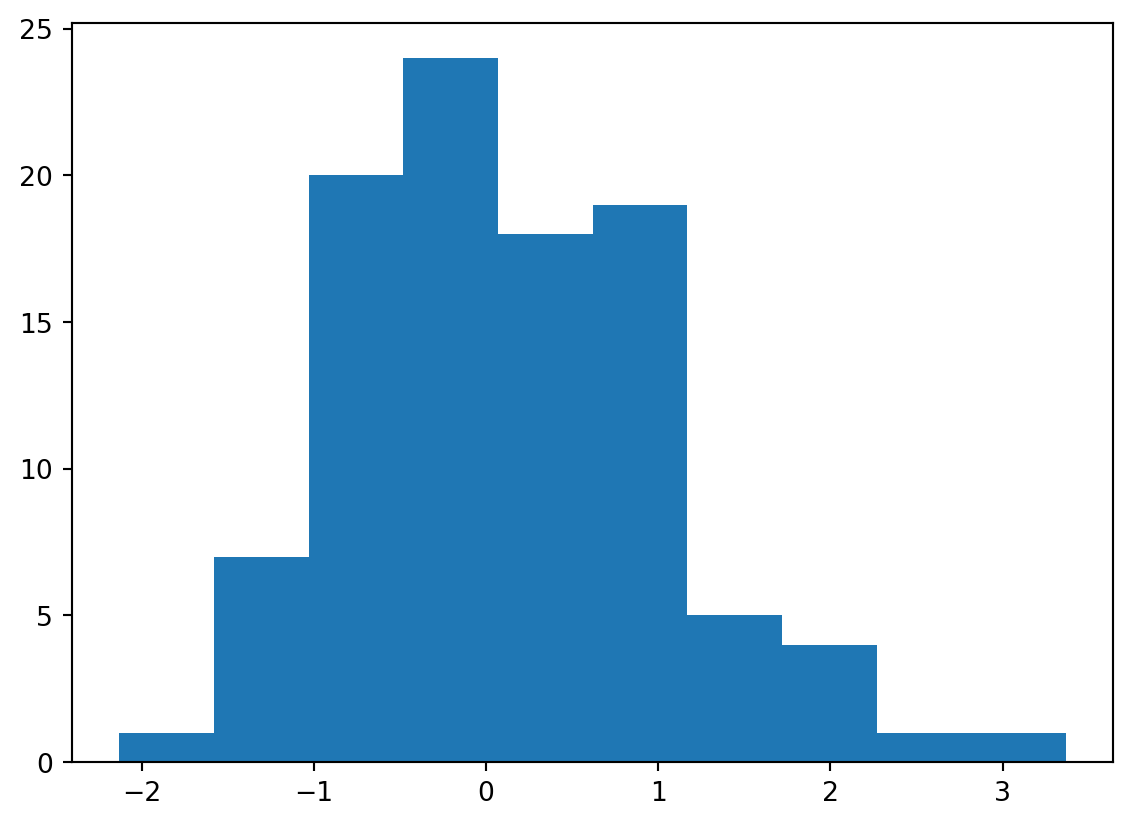
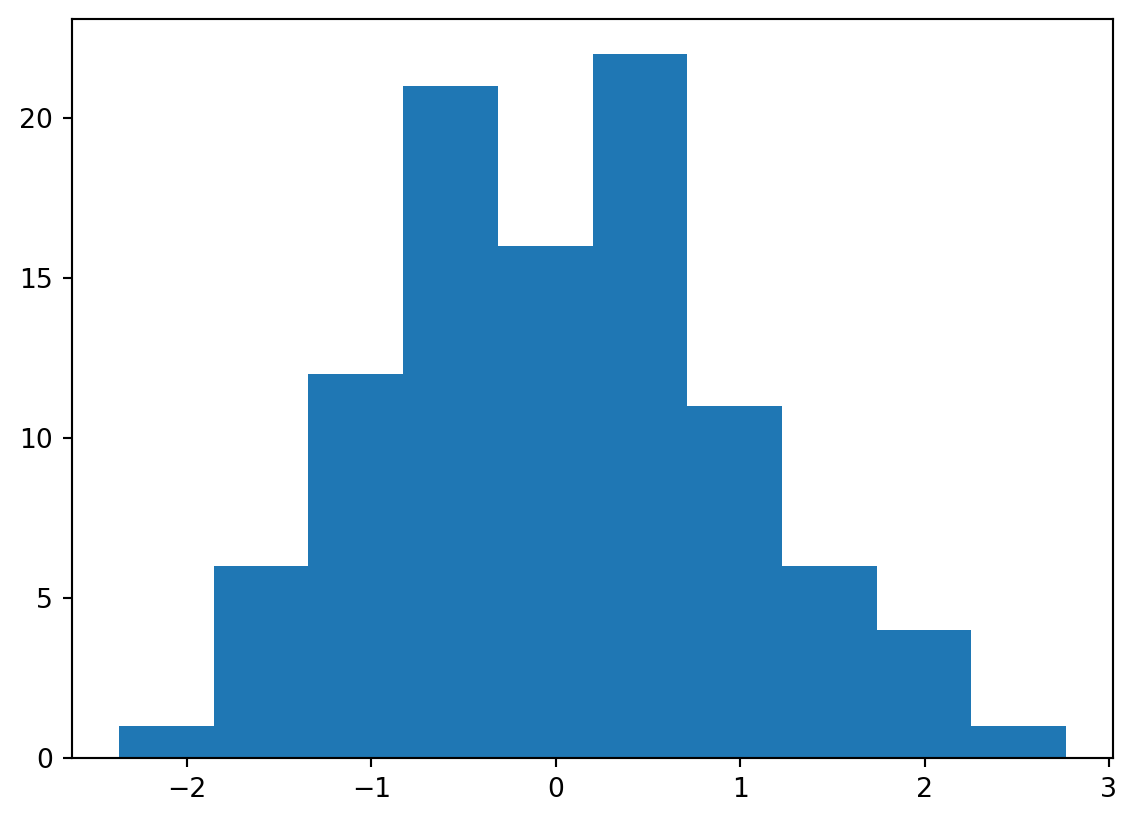
Built site for gh-pages

diff --git a/units/unit1.html b/units/unit1.html
@@ -193,7 +193,7 @@ window.Quarto = {
 <p>This is an example of using qmd as the source document.</p>
 <section id="evaluated-python-code-chunk-with-a-plot" class="level2">
 <h2 class="anchored" data-anchor-id="evaluated-python-code-chunk-with-a-plot">Evaluated Python code chunk, with a plot</h2>
-<div id="e0435729" class="cell" data-execution_count="1">
+<div id="d316f4c7" class="cell" data-execution_count="1">
 <details open="" class="code-fold">
 <summary>Code</summary>
 <div class="code-copy-outer-scaffold"><div class="sourceCode cell-code" id="cb1"><pre class="sourceCode python code-with-copy"><code class="sourceCode python"><span id="cb1-1"><a href="#cb1-1" aria-hidden="true" tabindex="-1"></a><span class="im">import</span> numpy <span class="im">as</span> np</span>
@@ -206,12 +206,12 @@ window.Quarto = {
 <div class="cell-output cell-output-display">
 <div>
 <figure class="figure">
-<p><img src="unit1_files/figure-html/cell-2-output-1.png" width="566" height="413" class="figure-img"></p>
+<p><img src="unit1_files/figure-html/cell-2-output-1.png" width="568" height="411" class="figure-img"></p>
 </figure>
 </div>
 </div>
 <div class="cell-output cell-output-display" data-execution_count="1">
-<pre><code>0.1088948563379814</code></pre>
+<pre><code>0.037529259730748284</code></pre>
 </div>
 </div>
 </section>
@@ -264,7 +264,7 @@ window.Quarto = {
 </div>
 <div id="tabset-1-2" class="tab-pane" role="tabpanel" aria-labelledby="tabset-1-2-tab">
 <p>This code is executed.</p>
-<div id="e6269522" class="cell" data-execution_count="2">
+<div id="66c91895" class="cell" data-execution_count="2">
 <details open="" class="code-fold">
 <summary>Code</summary>
 <div class="code-copy-outer-scaffold"><div class="sourceCode cell-code" id="cb4"><pre class="sourceCode python code-with-copy"><code class="sourceCode python"><span id="cb4-1"><a href="#cb4-1" aria-hidden="true" tabindex="-1"></a><span class="kw">def</span> fizz_buzz(num):</span>

diff --git a/units/unit3.html b/units/unit3.html
@@ -195,7 +195,7 @@ $$
 <p>This is an example of using qmd as the source document with pdf as one target. I’ve taken out the qmd stuff that doesn’t seem to render to pdf.</p>
 <section id="evaluated-python-code-chunk-with-a-plot" class="level2">
 <h2 class="anchored" data-anchor-id="evaluated-python-code-chunk-with-a-plot">Evaluated Python code chunk, with a plot</h2>
-<div id="46859a47" class="cell" data-execution_count="1">
+<div id="4078a54b" class="cell" data-execution_count="1">
 <details open="" class="code-fold">
 <summary>Code</summary>
 <div class="code-copy-outer-scaffold"><div class="sourceCode cell-code" id="cb1"><pre class="sourceCode python code-with-copy"><code class="sourceCode python"><span id="cb1-1"><a href="#cb1-1" aria-hidden="true" tabindex="-1"></a><span class="im">import</span> numpy <span class="im">as</span> np</span>
@@ -208,12 +208,12 @@ $$
 <div class="cell-output cell-output-display">
 <div>
 <figure class="figure">
-<p><img src="unit3_files/figure-html/cell-2-output-1.png" width="566" height="411" class="figure-img"></p>
+<p><img src="unit3_files/figure-html/cell-2-output-1.png" width="579" height="411" class="figure-img"></p>
 </figure>
 </div>
 </div>
 <div class="cell-output cell-output-display" data-execution_count="1">
-<pre><code>0.06886250424296922</code></pre>
+<pre><code>0.1658912914410287</code></pre>
 </div>
 </div>
 </section>

diff --git a/index.html b/index.html
@@ -744,7 +744,7 @@ window.Quarto = {
 
            <tr>
            
-           <td><strong class="label label-Assignment">Assignment 2</strong> <a href="https://drive.google.com/file/d/1A6VAZz-4zVopF4z3-mAvUC3OESuSqx0h/view?usp=sharing" target="_blank">Assignment 2 Released - Due Mar 10</a></td>
+           <td><strong class="label label-Assignment">Assignment 2</strong> <a href="https://drive.google.com/file/d/13b_Ay8gdylQnnl_oeD_PI48RQlitFipB/view?usp=sharing" target="_blank">Assignment 2 Released - Due Mar 10</a></td>
            
                 <td></td>
            
